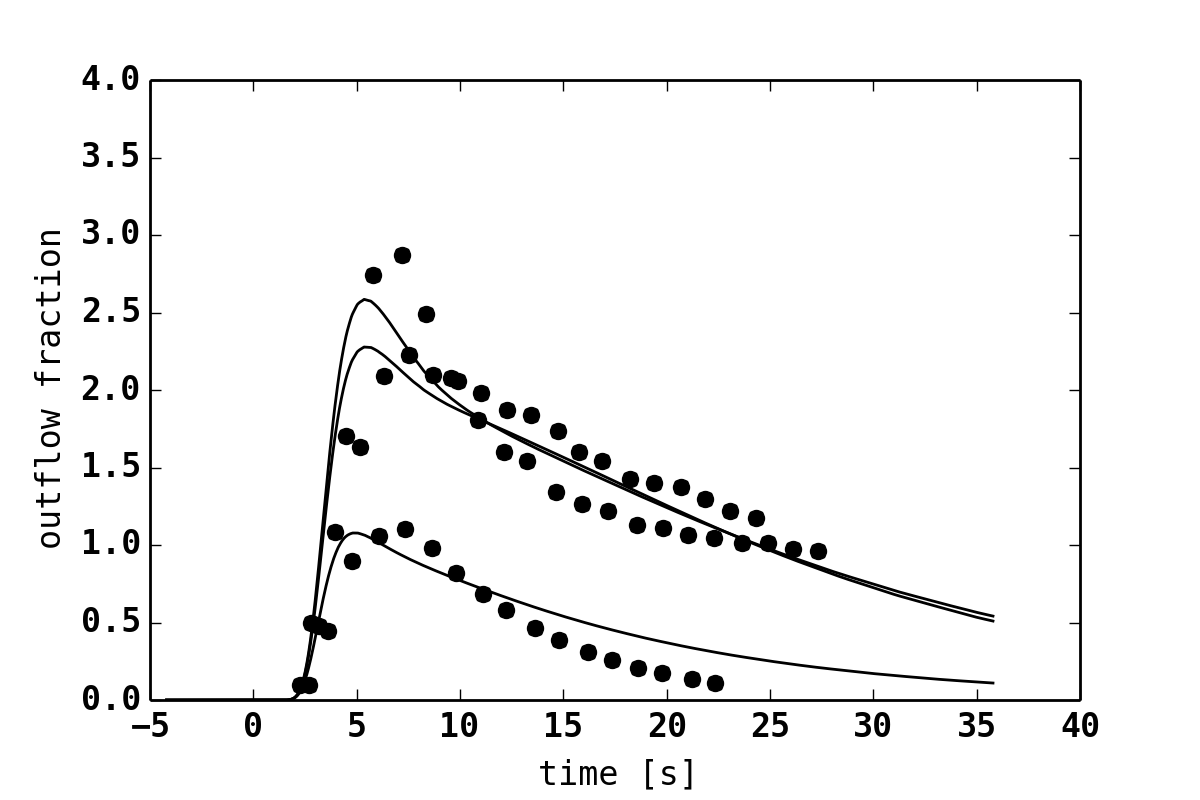
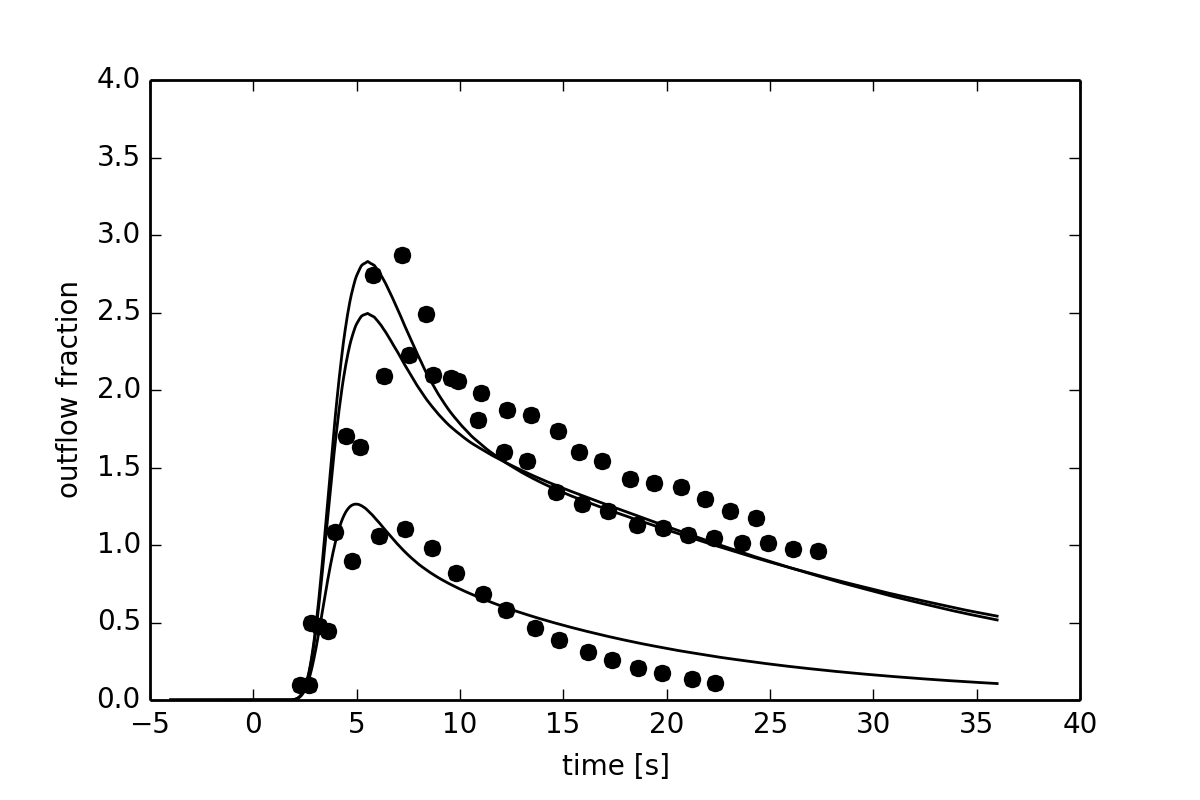
Final parameter set reproducing perfusion, GEC and dilution curves

diff --git a/python/simulator/simulator/roadrunner_tools/galactose_challenge.py b/python/simulator/simulator/roadrunner_tools/galactose_challenge.py
@@ -7,15 +7,14 @@ Steady state clearance of galactose under given galactose challenge.
 Here the clearance parameters and the GEC can be calculated from the model.
 
 @author: Matthias Koenig
-@date: 2014-01-15
+@date: 2014-01-19
 '''
-
 import roadrunner_tools as rt
 
 #########################################################################    
 # Load model
 #########################################################################    
-VERSION = 97
+VERSION = 100
 SBML_DIR = '/home/mkoenig/multiscale-galactose-results/tmp_sbml'
 sbml_file = SBML_DIR + '/' + 'Galactose_v{}_Nc20_galchallenge.xml'.format(VERSION)
 r = rt.load_model(sbml_file)
@@ -39,22 +38,23 @@ r.selections = sel
 # Set parameters & simulate
 ######################################################################### 
 import numpy as np
-flow_sin = np.arange(start=0, stop=0.8, step=0.05) * r.flow_sin # [m/s] (scaling to calculate in correct volume flow range)
+f_sin1 = np.arange(start=0, stop=0.3, step=0.05) * r.flow_sin # [m/s] (scaling to calculate in correct volume flow range)
+f_sin2 = np.arange(start=0.3, stop=1.6, step=0.3) * r.flow_sin # [m/s] (scaling to calculate in correct volume flow range)
+flow_sin = np.concatenate((f_sin1, f_sin2))
 
 # set the boundary concentrations
 # PP__gal = (0.28, 5, 12.5, 17.5) # [mM]
 p_list = []
 for f in flow_sin:
-    d = { "gal_challenge" : 8,  
+    d = { "gal_challenge" : 20,  
               "flow_sin" : f,     
-
-              "y_dis" : 2.3E-6,
-              # "y_cell" : 8.39E-6,
+              # "y_dis" : 2.3E-6,
+              #"y_cell" : 8.39E-6*1.12,
               
-              # "f_cyto" : 0.4,
-              # "scale_f" : 0.43,
+              #"f_cyto" : 0.4,
+              #"scale_f" : 0.45/1.1,
               #"GALK_PA" : 0.024,
-              # "GLUT2_f" : 10.0,              
+              #"GLUT2_f" : 7.5,              
               # "H2OT_f": 5.0,         
              }
     p_list.append(d)
@@ -72,7 +72,8 @@ s_list = [rt.simulation(r, p, inits, absTol=1E-4, relTol=1E-4) for p in p_list]
 import numpy as np
 Q_sinunit = np.pi * r.y_sin**2 * flow_sin # [m³/s]
 Vol_sinunit = r.Vol_sinunit   # has to be calculated with the actual variables
-print (r.L * np.pi * (r.y_sin + r.y_end + r.y_dis + r.y_cell*1.4)**2)/r.Vol_sinunit
+f_modvol = (r.L * np.pi * (r.y_sin + r.y_end + r.y_dis + 8.39E-6*1.12)**2)/r.Vol_sinunit
+print f_modvol
 
 
 
@@ -106,7 +107,7 @@ p.show()
 
 
 # Add line for the used flow factor in dilution
-f_fac = 0.45
+f_fac = 0.5
 Q_fac = np.pi * r.y_sin**2 * f_fac * r.flow_sin/r.Vol_sinunit*60 # [m³/s]
 print 'Q_fac:', Q_fac
 
@@ -137,4 +138,8 @@ p.title('GEC liver vs. Perfusion')
 p.show()
 # print 'Perfusion', f_vol*Q, '[ml/min/ml(liv)]'
 # print 'GEC liver',  GEC*vol_liv, '[mmole/min]'
+
+print 'Q_fac cor:', Q_fac/f_vol/f_modvol
+print 'GEC cor:', f_vol*max(GEC)*vol_liv/f_modvol
+
 

diff --git a/python/simulator/simulator/roadrunner_tools/galactose_dilution_flux.py b/python/simulator/simulator/roadrunner_tools/galactose_dilution_flux.py
@@ -16,7 +16,7 @@ reload(rp)
 reload(gf)
 
 #########################################################################    
-VERSION = 97
+VERSION = 100
 SBML_DIR = '/home/mkoenig/multiscale-galactose-results/tmp_sbml'
 T_PEAK = 5000
 
@@ -61,14 +61,14 @@ for gal in [0.28, 12.5, 17.5]:
         d = { 
               "[PP__gal]" : gal, 
               "flow_sin" : f,    
-              "y_dis" : 2.3E-6,
-              # "y_cell" : 8.39E-6,
+              # "y_dis" : 2.3E-6,
+              # "y_cell" : 8.39E-6*1.12,
               
               # "f_cyto" : 0.4,
-              # "scale_f" : 0.43,
+              # "scale_f" : 0.45/1.1,
               #"GALK_PA" : 0.024,
-              # "GLUT2_f" : 10.0,              
-              # "H2OT_f": 5.0,               
+              # "GLUT2_f" : 7.5,              
+              # "H2OT_f": 5.0,            
               }
         p_list.append(d)
     gal_p_list.append(p_list)
@@ -120,8 +120,8 @@ tlim = [T_PEAK-4, T_PEAK+20]
 # rp.average_plots(timepoints, av_mats, xlim=tlim, show=show_plots)
     
 
-rp.plot_data_with_sim(exp_data, timepoints, av_mats, scale=4.0*15.16943, time_shift=0.8)
-rp.plot_gal_data_with_sim(exp_data, timepoints, av_mats, scale=4.0*15.16943, time_shift=0.8)   
+rp.plot_data_with_sim(exp_data, timepoints, av_mats, scale=4.0*15.16943, time_shift=1.0)
+rp.plot_gal_data_with_sim(exp_data, timepoints, av_mats, scale=4.0*15.16943, time_shift=1.0)   
  
 
 # additional information

diff --git a/python/modelcreator/modelcreator/models/SinusoidalUnit.py b/python/modelcreator/modelcreator/models/SinusoidalUnit.py
@@ -80,8 +80,8 @@ pars.extend([
             ('L',           500E-6,   'm',      True),
             ('y_sin',       4.4E-6,   'm',      True),
             ('y_end',     0.165E-6, 'm',      True),
-            ('y_dis',       2.0E-6,   'm',      True),
-            ('y_cell',     8.39E-6,  'm',      True),
+            ('y_dis',       2.3E-6,   'm',      True),
+            ('y_cell',     9.40E-6,  'm',      True),
             ('flow_sin',    229E-6,   'm_per_s',True),
             ('N_fen',        10E12,   'per_m2', True),
             ('r_fen',      53.5E-9,   'm',      True),

diff --git a/python/modelcreator/modelcreator/models/GalactoseFactory.py b/python/modelcreator/modelcreator/models/GalactoseFactory.py
@@ -22,7 +22,7 @@ if __name__ == "__main__":
     # definition of cell model and tissue model
     Nc = 20
     Nf = 1
-    version = 97
+    version = 100
     cell_model = CellModel.createModel('galactose.GalactoseCell')
     tdict = TissueModel.createTissueDict(['SinusoidalUnit', 
                                           'galactose.GalactoseSinusoid']) 

diff --git a/python/modelcreator/modelcreator/models/galactose/GalactoseCell.py b/python/modelcreator/modelcreator/models/galactose/GalactoseCell.py
@@ -49,7 +49,7 @@ species = [
             ('c__nadph',            0.1,    'mM'),
 ]
 pars = [# id, value, unit, constant            
-            ('scale_f',   0.43,   'per_m3',    True),
+            ('scale_f',   0.41,   'per_m3',    True),
             ('REF_P',     1.0,      'mM',   True),
             ('deficiency',  0,      '-',    True),
 ]  

diff --git a/python/modelcreator/modelcreator/models/galactose/GalactoseReactions.py b/python/modelcreator/modelcreator/models/galactose/GalactoseReactions.py
@@ -483,7 +483,7 @@ GLUT2_GAL = ReactionTemplate(
     'e__gal <-> c__gal [e__galM, c__galM]',
     compartments = ['c__', 'e__'],
     pars = [
-            ('GLUT2_f',    10.0,   'mole_per_s'),
+            ('GLUT2_f',    7.5,   'mole_per_s'),
             ('GLUT2_k_gal', 27.8, 'mM'),
             ('c__GLUT2_P',   1.0, 'mM'),
     ],
